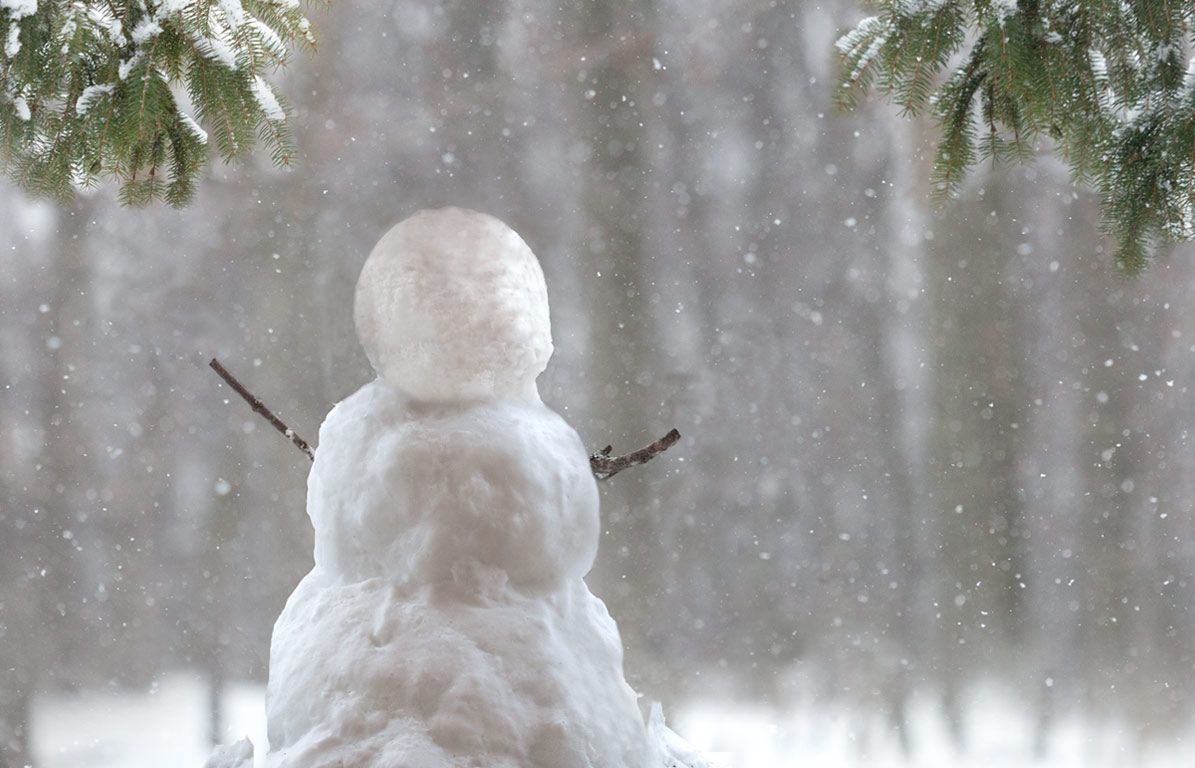
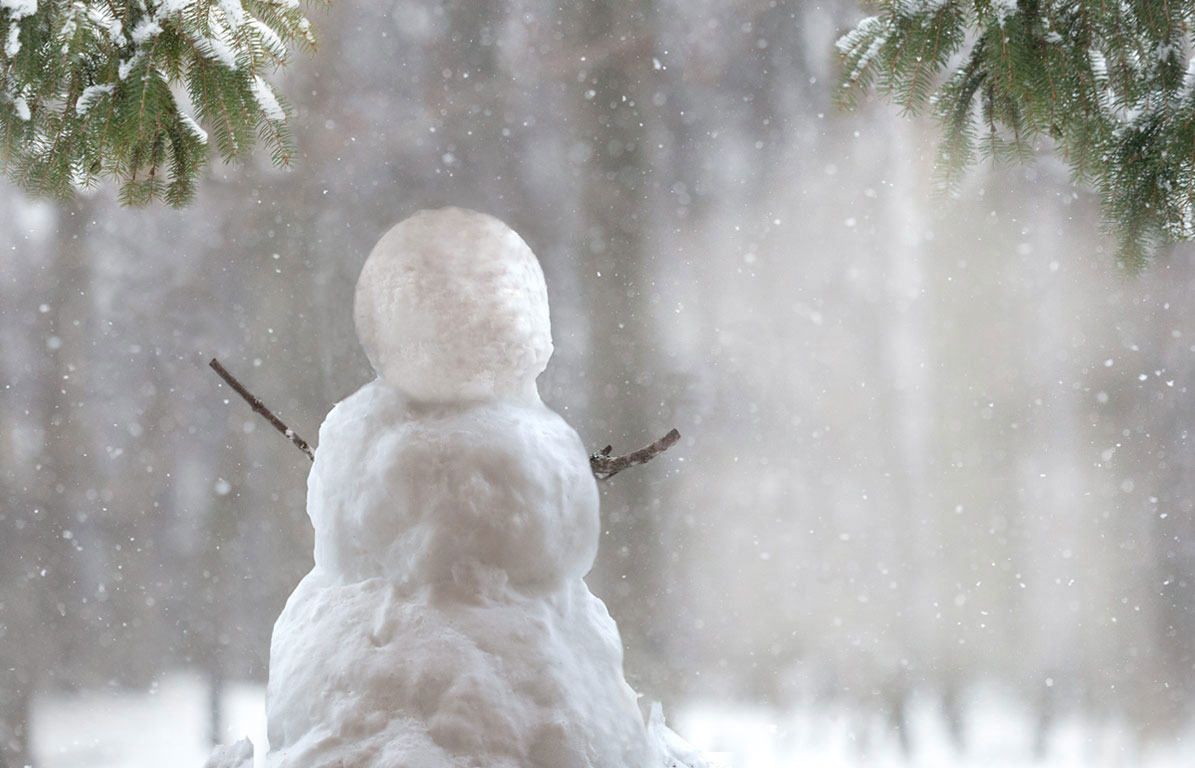
Work on Snowman game (adjusted background image, added info into alert), snowflakes on main menu

Changed region(s): [[0.5264, 0.125, 0.9908, 0.9062]]

diff --git a/HelloWorld/Classes/SnowmanGameScene.mm b/HelloWorld/Classes/SnowmanGameScene.mm
@@ -7,28 +7,28 @@
 
 // macros of coordinate
 
-#define ARROW_MENU_POSITION             ccp(893*XSCALE, 245*YSCALE)
-#define SPRITE_BETWEEN_ARROW_POSITION   ccp(805*XSCALE, 245*YSCALE)
-#define SCARF_BETWEEN_ARROW_POSITION    ccp(1080*XSCALE, 245*YSCALE)
-#define LEFT_ARROW_POSITION             ccp(-250*XSCALE, 0)
-#define SHARE_MENU_POSITION             ccp(832*XSCALE, 75*YSCALE)
+#define ARROW_MENU_POSITION             ccp(883*XSCALE, 495 *YSCALE)
+#define SPRITE_BETWEEN_ARROW_POSITION   ccp(818*XSCALE, 475 *YSCALE)
+#define SCARF_BETWEEN_ARROW_POSITION    ccp(1080*XSCALE, 495*YSCALE)
+#define LEFT_ARROW_POSITION             ccp(-208*XSCALE, 0)
+#define SHARE_MENU_POSITION             ccp(785*XSCALE, 75*YSCALE)
 #define LOGO_POSITION                   ccp(700*XSCALE, 690*YSCALE)
 #define HOME_MENU_POSITION              ccp(35*XSCALE, 35*YSCALE)
 
 // position to draw on snow man
 #define EYE_POSITION                    ccp(373*XSCALE, 484*YSCALE)
 #define MOUTH_POSITION                  ccp(373*XSCALE, 401*YSCALE)
-#define MITTEN_POSITION                 ccp(392*XSCALE, 388*YSCALE)
+#define MITTEN_POSITION                 ccp(374*XSCALE, 398*YSCALE)
 #define HAT_POSITION                    ccp(373*XSCALE, 546*YSCALE)
 #define NOSE_POSITION                   ccp(403*XSCALE, 449*YSCALE)
 #define SCARF_POSITION                  ccp(350*XSCALE, 240*YSCALE)
 
 // position for menu
-#define CATEGORY_POSITION       ccp(650*XSCALE, 430*YSCALE)
-#define CATEGORY_LOWER_POSITION ccp(650*XSCALE, 340*YSCALE)
+#define CATEGORY_POSITION       ccp(650*XSCALE, 150*YSCALE)
+#define CATEGORY_LOWER_POSITION ccp(650*XSCALE, 60*YSCALE)
 
 // position for info icon
-#define INFO_ICON_POSITION ccp(50*XSCALE, 715*YSCALE)
+#define INFO_ICON_POSITION ccp(950*XSCALE, 75*YSCALE)
 
 #define HAT_TAG     1
 #define EYE_TAG     2
@@ -686,7 +686,7 @@ void SnowmanGameScene::infoMenuTouched(cocos2d::CCObject *sender)
     items.push_back("OK");
     
     infoMenuDialog = new MyDialog();
-    infoMenuDialog->initWithItems("stranger in the wood", items, this);
+    infoMenuDialog->initWithItems("STEP 1\nUse arrows\nto select  an item\n\nSTEP 2\nTouch the item to add it\nto your Snowman\n\nSTEP 3\nChange the category\nby touching a new one\n(below the arrows)", items, this);
     infoMenuDialog->popUp();
 }
 

diff --git a/HelloWorld/Classes/PageManager.cpp b/HelloWorld/Classes/PageManager.cpp
@@ -76,7 +76,7 @@ void PageManager::turnToPage(int pageNumber, bool backWards)
     CCScene *scene = createSceneByPageNumber(pageNumber);
     if (scene)
     {
-        SimpleAudioEngine::sharedEngine()->end();
+        // SimpleAudioEngine::sharedEngine()->end();
         
         // play effect
         if (backWards)
